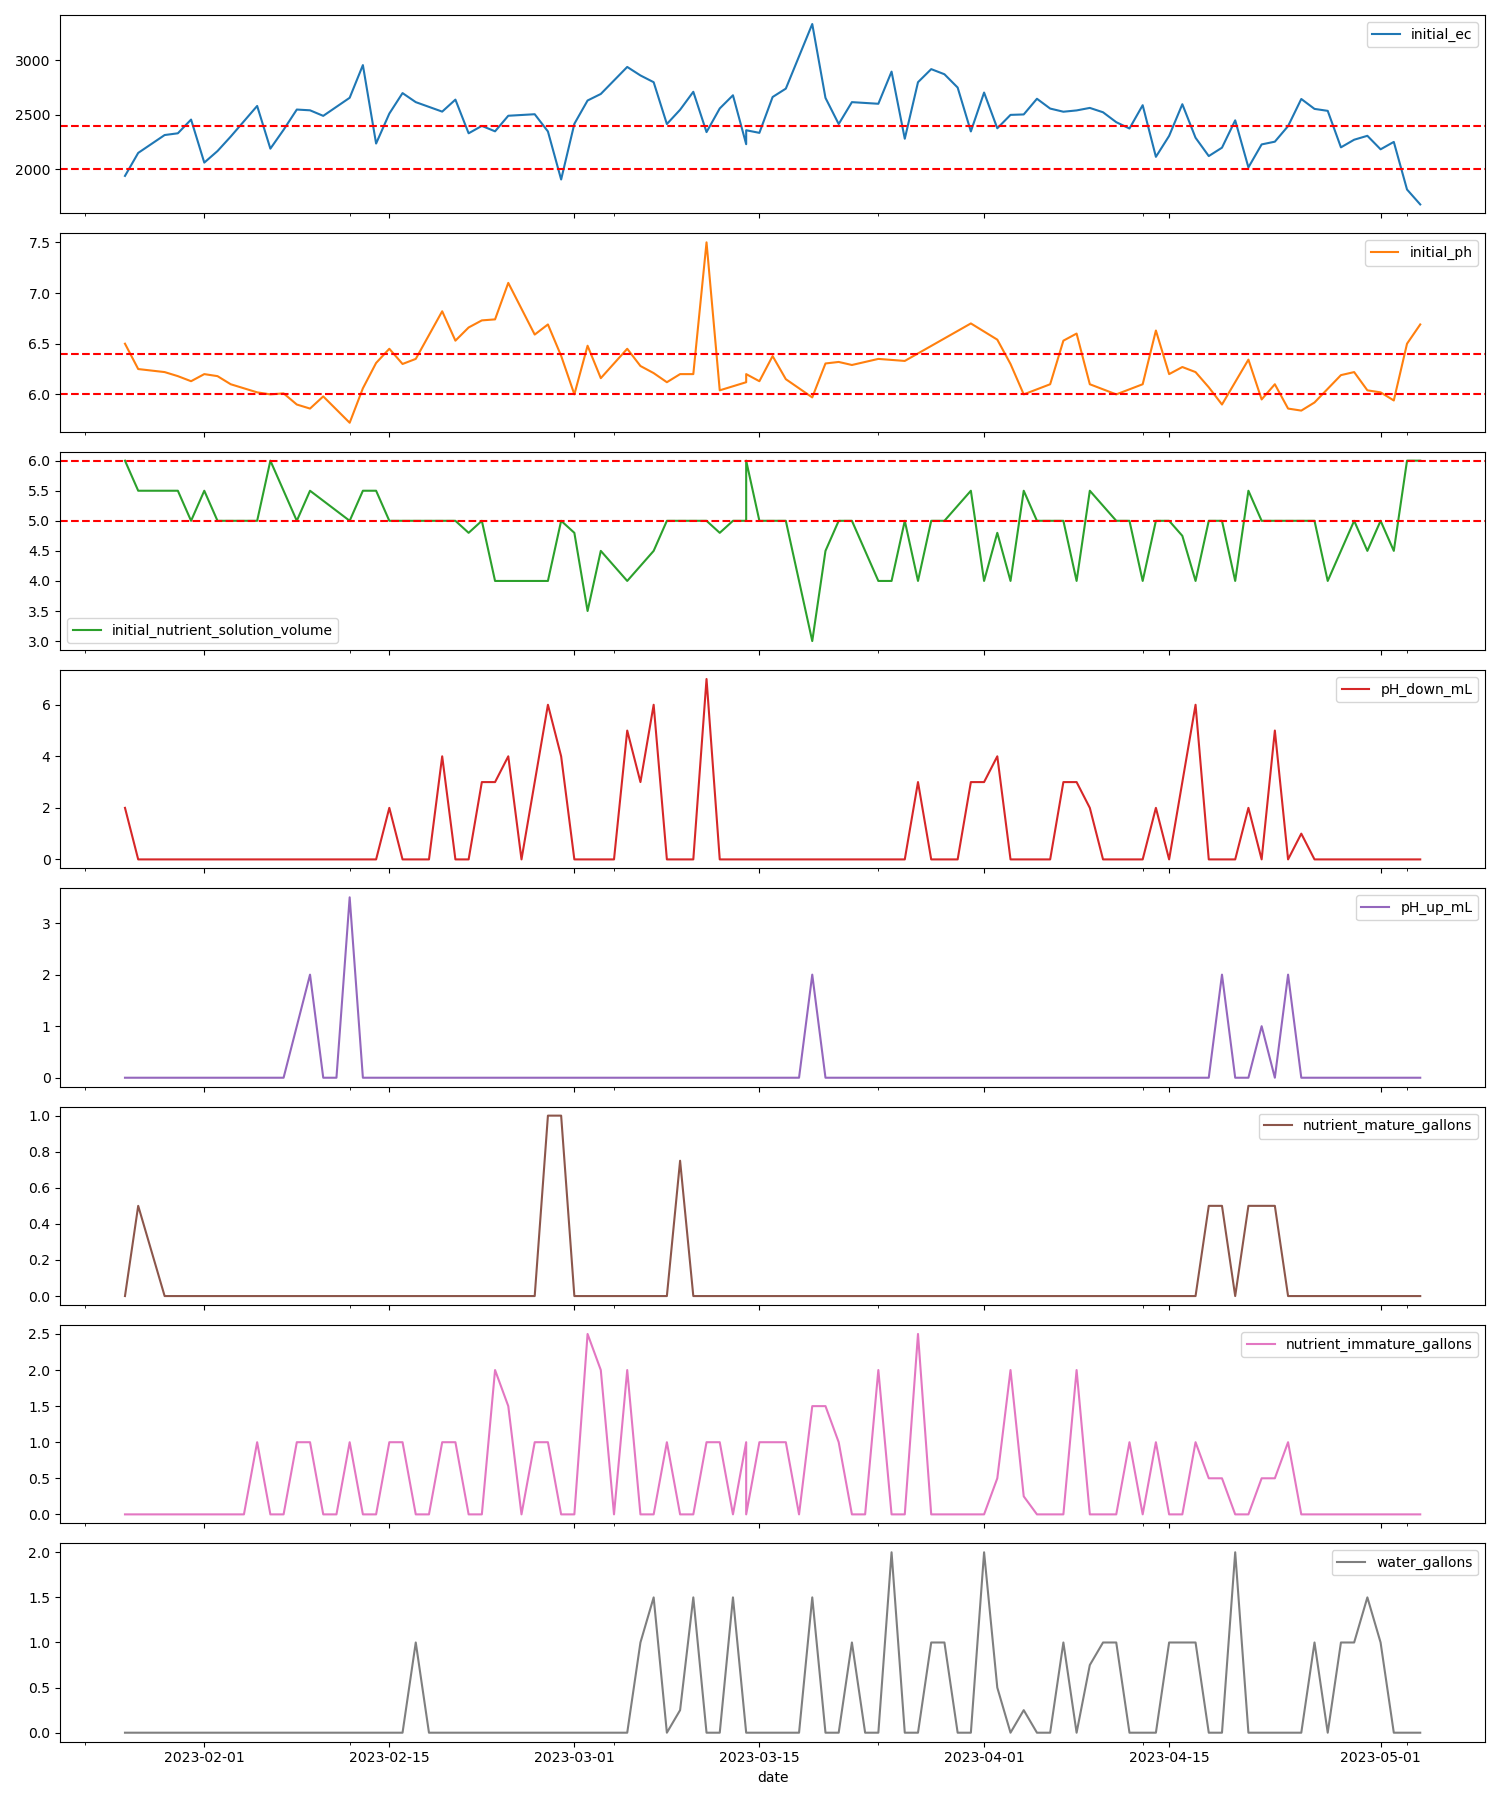
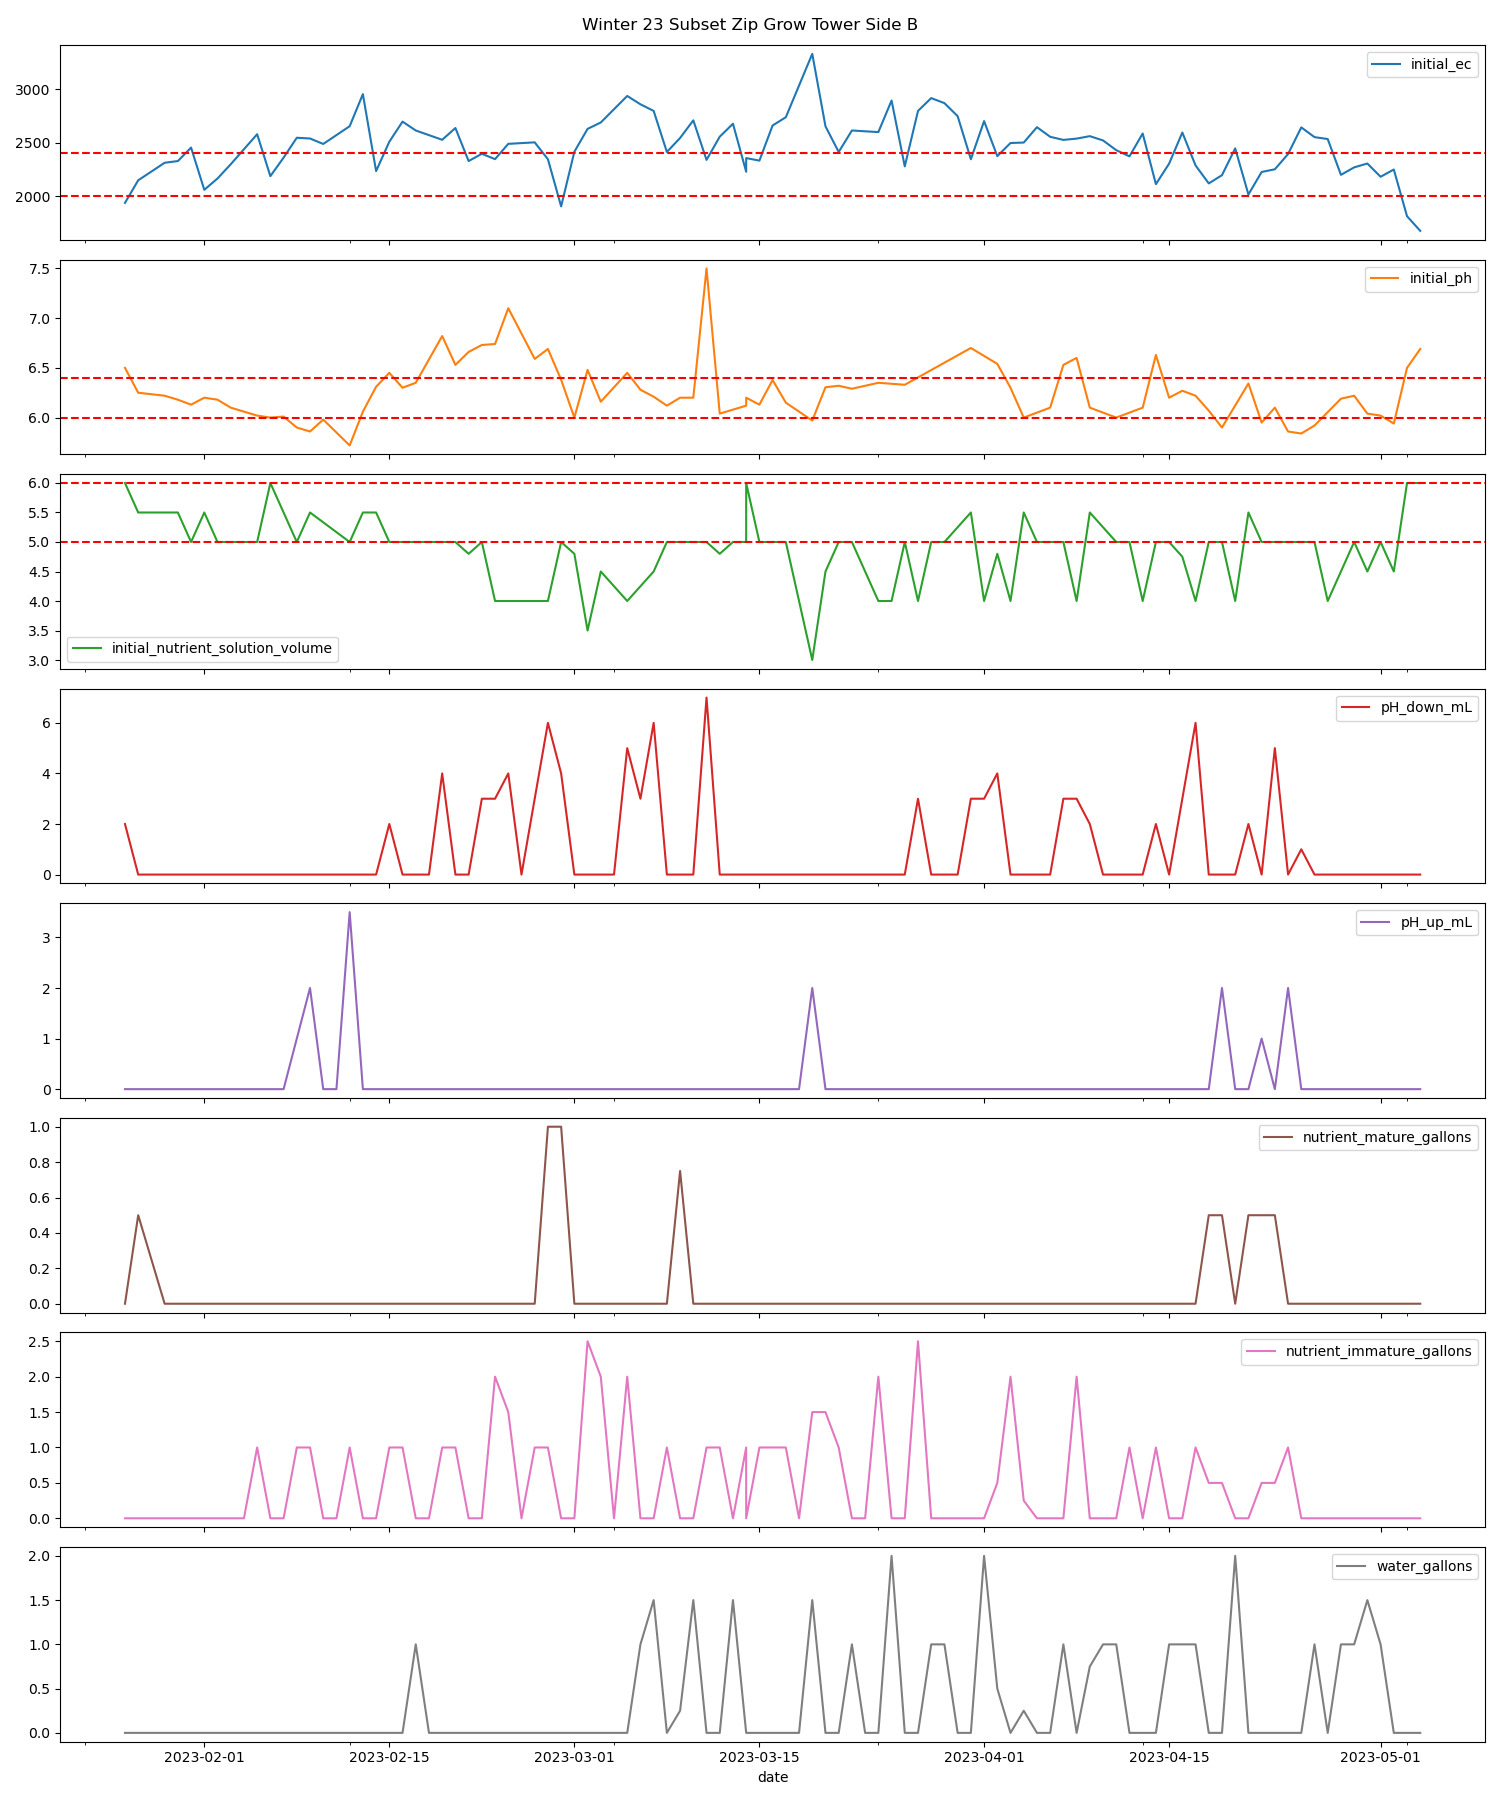
add system realization and simulations

diff --git a/scripts/system_realization.py b/scripts/system_realization.py
@@ -1,0 +1,91 @@
+import pandas as pd
+import numpy as np
+from nfoursid.nfoursid import NFourSID
+
+if __name__ == "__main__":
+    # Input and Output data columns
+    input_columns = [
+        "pH_down_mL",
+        "pH_up_mL",
+        "nutrient_mature_gallons",
+        "nutrient_immature_gallons",
+        "water_gallons",
+    ]
+    output_columns = ["initial_ec", "initial_ph", "initial_nutrient_solution_volume"]
+
+    # Load the CSV file into a pandas DataFrame
+    df = pd.read_csv(
+        "data/daily_system_data/win23_subset_zip_grow_tower_side_b_cleaned_interpolated.csv"
+    )
+
+    # Identify both subspace and system equations using N4SID.
+    # Github Repository: https://github.com/spmvg/nfoursid
+    # Original Paper:
+    # Van Overschee, P., & De Moor, B. (1994). N4SID:
+    # Subspace algorithms for the identification of combined deterministic-stochastic systems.
+    # Automatica, 30(1), 75-93. https://doi.org/10.1016/0005-1098(94)90230-5
+    nfoursid = NFourSID(
+        df, input_columns=input_columns, output_columns=output_columns, num_block_rows=1
+    )
+    nfoursid.subspace_identification()
+    state_space_identified, covariance_matrix = nfoursid.system_identification(rank=3)
+    A = state_space_identified.a
+    B = state_space_identified.b
+    C = state_space_identified.c
+    D = state_space_identified.d
+
+    # Simulate the identified state space model
+    input_dataset = df[input_columns].values
+    output_dataset = df[output_columns].values
+    initial_x = np.dot(
+        np.linalg.inv(C),
+        output_dataset[0].reshape(-1, 1) - np.dot(B, input_dataset[0].reshape(-1, 1)),
+    )
+    initial_output = state_space_identified.output(initial_x)
+    state_space_identified._set_x_init(initial_x)
+    sim_ec = [initial_output[0][0]]
+    sim_ph = [initial_output[1][0]]
+    sim_nutrient_solution_volume = [initial_output[2][0]]
+    for index, input_data in enumerate(input_dataset[1:]):
+        predicted_output = state_space_identified.step(input_data.reshape(-1, 1))
+        sim_ec.append(predicted_output[0][0])
+        sim_ph.append(predicted_output[1][0])
+        sim_nutrient_solution_volume.append(predicted_output[2][0])
+
+    # Create a DataFrame with simulated data
+    simulated_output_columns = [
+        "sim_initial_ec",
+        "sim_initial_ph",
+        "sim_initial_nutrient_solution_volume",
+    ]
+    simulated_df = df.copy()
+    simulated_df["sim_initial_ec"] = sim_ec
+    simulated_df["sim_initial_ph"] = sim_ph
+    simulated_df["sim_initial_nutrient_solution_volume"] = sim_nutrient_solution_volume
+
+    # Reorder columns with desired ranges first
+    desired_columns = [
+        "sim_initial_ec",
+        "sim_initial_ph",
+        "sim_initial_nutrient_solution_volume",
+    ]
+    remaining_columns = [
+        col for col in simulated_df.columns if col not in desired_columns
+    ]
+    reordered_columns = desired_columns + remaining_columns
+    simulated_df = simulated_df[reordered_columns]
+
+    # Save simulated DataFrame
+    simulated_df.to_csv(
+        "data/daily_system_data/win23_subset_zip_grow_tower_side_b_simulated.csv",
+        index=False,
+    )
+
+    # Save A, B, C, D matrices
+    np.savez(
+        "data/state_space_model_weights/win23_subset_zip_grow_tower_side_b_simulated.npz",
+        A=A,
+        B=B,
+        C=C,
+        D=D,
+    )

diff --git a/scripts/plot_simulated_subset_data.py b/scripts/plot_simulated_subset_data.py
@@ -4,8 +4,11 @@ import pandas as pd
 if __name__ == "__main__":
     # Load the CSV file into a pandas DataFrame
     df = pd.read_csv(
-        "data/daily_system_data/win23_subset_zip_grow_tower_side_b_cleaned_interpolated.csv"
+        "data/daily_system_data/win23_subset_zip_grow_tower_side_b_simulated.csv"
     )
+
+    # Drop the first row. Calculating init
+    df = df.iloc[1:]
 
     # Convert 'date' column to datetime format
     df["date"] = pd.to_datetime(df["date"])
@@ -15,19 +18,27 @@ if __name__ == "__main__":
 
     # Drop final nutrient solution volume
     df.drop(
-        columns=["final_ec", "final_ph", "final_nutrient_solution_volume"], inplace=True
+        columns=[
+            "initial_ph",
+            "initial_ec",
+            "initial_nutrient_solution_volume",
+            "final_ec",
+            "final_ph",
+            "final_nutrient_solution_volume",
+        ],
+        inplace=True,
     )
 
     # Plot the columns through time
     fig, axs = plt.subplots(nrows=len(df.columns), figsize=(15, 18), sharex=True)
     df.plot(subplots=True, ax=axs)
 
-    # Add red lines indicating desired range for initial_ph, initial_ec,
-    # and initial_nutrient_solution_volume.
+    # Add red lines indicating desired range for sim_initial_ph, sim_initial_ec,
+    # and sim_initial_nutrient_solution_volume.
     desired_ranges = {
-        "initial_ph": (6, 6.4),
-        "initial_ec": (2000, 2400),
-        "initial_nutrient_solution_volume": (5, 6),
+        "sim_initial_ph": (6, 6.4),
+        "sim_initial_ec": (2000, 2400),
+        "sim_initial_nutrient_solution_volume": (5, 6),
     }
     for ax, col in zip(axs, df.columns):
         if col in desired_ranges:
@@ -35,10 +46,10 @@ if __name__ == "__main__":
             ax.axhline(y=min_val, color="r", linestyle="--")
             ax.axhline(y=max_val, color="r", linestyle="--")
 
-    plt.suptitle("Winter 23 Subset Zip Grow Tower Side B", y=0.99)
+    plt.suptitle("Winter 23 Subset Zip Grow Tower Side B Simulated", y=0.99)
     plt.tight_layout()
 
     # Save figure
     plt.savefig(
-        "data/daily_system_data_plots/win23_subset_zip_grow_tower_side_b_cleaned_interpolated.png"
+        "data/daily_system_data_plots/win23_subset_zip_grow_tower_side_b_simulated.png"
     )
